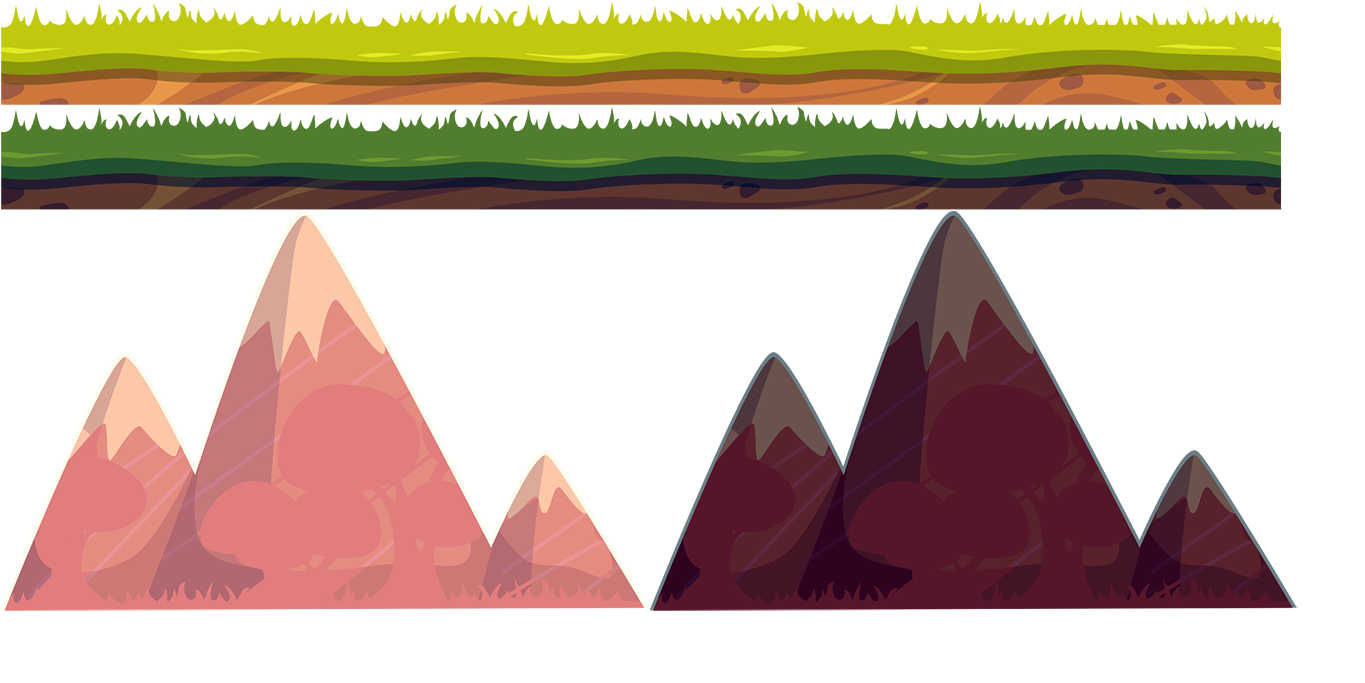
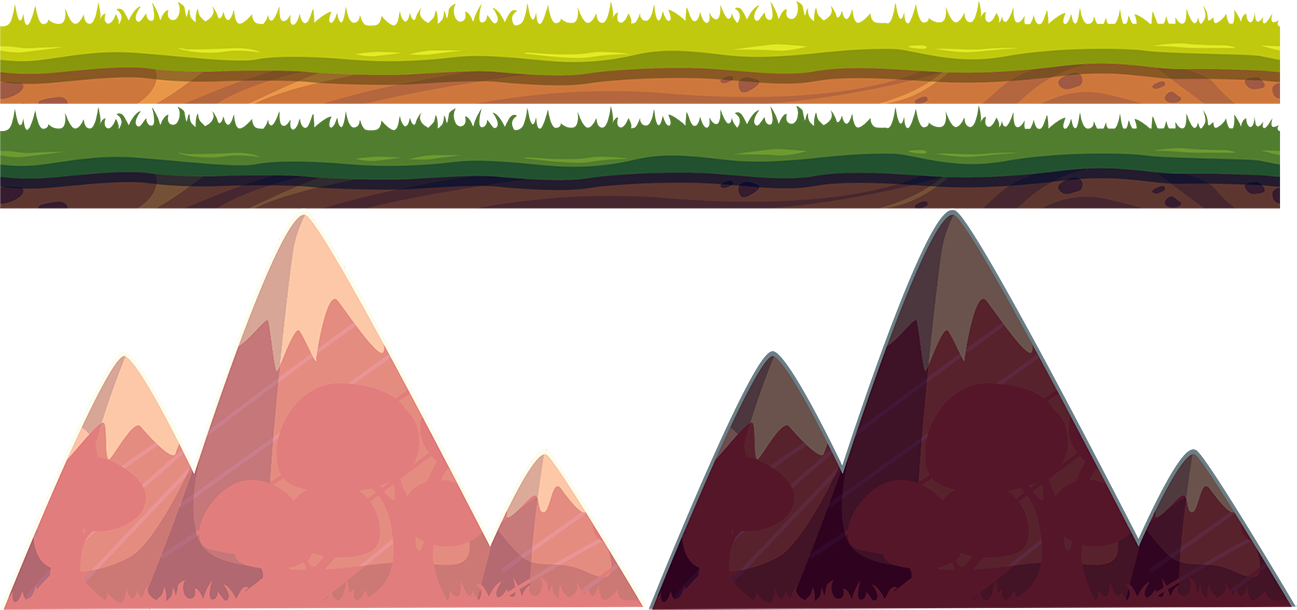
...

diff --git a/css/style.css b/css/style.css
@@ -112,3 +112,91 @@ progress{
   margin: auto;
   top: 204px;
 }
+
+#screen-start{
+  background: url('../images/bg_day.png') 0% 0% repeat-x;
+}
+
+.ground-day{
+  position: absolute;
+  background: url('../images/terrain.png') 0 0 no-repeat;
+  bottom: 0;
+  width: 100%;
+  height: 103px;
+}
+
+.mountain-day{
+  position: absolute;
+  background: url('../images/terrain.png') 0 -211px no-repeat;
+  bottom: 70px;
+  left: 252px;
+  width: 646px;
+  height: 400px;
+}
+
+.tree-day{
+  position: absolute;
+  background: url('../images/trees.png') no-repeat;
+  bottom: 70px;
+}
+
+.tree1{  
+  background-position: -215px 0px;  
+  left: 232px;
+  width: 215px;
+  height: 157px;
+}
+
+.tree2{
+  background-position: -245px -160px;
+  left: 760px;
+  width: 245px;
+  height: 246px;
+}
+
+.cloud-day{
+  position: absolute;
+  background: url('../images/clouds.png') no-repeat;
+  animation-duration: 30s;
+  animation-iteration-count: infinite;
+  animation-name: cloud;
+  animation-timing-function: linear;
+}
+
+.cloud1{
+  background-position: 0px 0px;
+  width: 627px;
+  height: 72px;
+  top: 100px;
+  left: 100px;
+}
+
+.cloud2{
+  background-position: -494px -79px;
+  width: 264px;
+  height: 28px;
+  top: 300px;
+  left: 0px;
+}
+
+.cloud3{
+  background-position: -619px 0px;
+  width: 304px;
+  height: 60px;
+  top: 200px;
+  left: 700px;
+}
+
+.cloud4{
+  background-position: 0px -80px;
+  width: 496px;
+  height: 80px;
+  top: 400px;
+  left: 500px;
+}
+
+@keyframes cloud
+{
+    from {transform: translateX(500px);}
+    to {transform: translateX(-1000px);}
+}

diff --git a/index.html b/index.html
@@ -20,12 +20,15 @@
       </div>
       
       <div id="screen-start" class="screen">        
-
-      </div>
-      
-      <div id="screen-choose" class="screen">
-
-      </div>
+        <div class="cloud-day cloud1"></div>        
+        <div class="cloud-day cloud2"></div>        
+        <div class="cloud-day cloud3"></div>        
+        <div class="cloud-day cloud4"></div>        
+        <div class="mountain-day"></div>        
+        <div class="tree-day tree1"></div>
+        <div class="tree-day tree2"></div>
+        <div class="ground-day"></div>
+      </div>      
       
       <div id="screen-game" class="screen">
         <canvas id="game-stage"></canvas>
@@ -39,7 +42,7 @@
     <script type="text/javascript" src="http://ajax.googleapis.com/ajax/libs/jqueryui/1.10.2/jquery-ui.min.js"></script>
     <script type="text/javascript" src="js/gsap/TweenMax.min.js"></script>
     <script type="text/javascript" src="js/game_engine.js"></script>
-    <script type="text/javascript" src="js/choco.js?v1.0.6"></script>
+    <script type="text/javascript" src="js/choco.js?v1.0.0"></script>
     
   </body>
 </html>

diff --git a/js/choco.js b/js/choco.js
@@ -44,11 +44,11 @@ Choco.loader=null;
 Choco.game = null;
 
 Choco.imageResources=[  
-  "images/backgrounds.png","images/clouds.png","images/grass_day.png","images/grass_night.png","images/highscore.png",
+  "images/bg_day.png","images/clouds.png","images/grass_day.png","images/grass_night.png","images/highscore.png",
   "images/intro.png","images/intro_background.png","images/logos.png","images/Museo900.png","images/pickups.png",
   "images/planes.png","images/terrain.png","images/Toonish1.png","images/Toonish2.png","images/Toonish3.png",
   "images/Toonish4.png","images/totem.png","images/toucanFrames.png","images/trees.png","images/tutorial.png",
-  "images/uielements.png"
+  "images/uielements.png","images/bg_night.png"
   ]
 ;
 
@@ -506,6 +506,7 @@ Choco.renderGame = function() {
  * Gets high scores
  */
 Choco.getHighScores = function(callback){
+  return;
     $.ajax({
       type: 'GET',
       url: 'http://rasterstudio.hu/api/xmas_scores',
